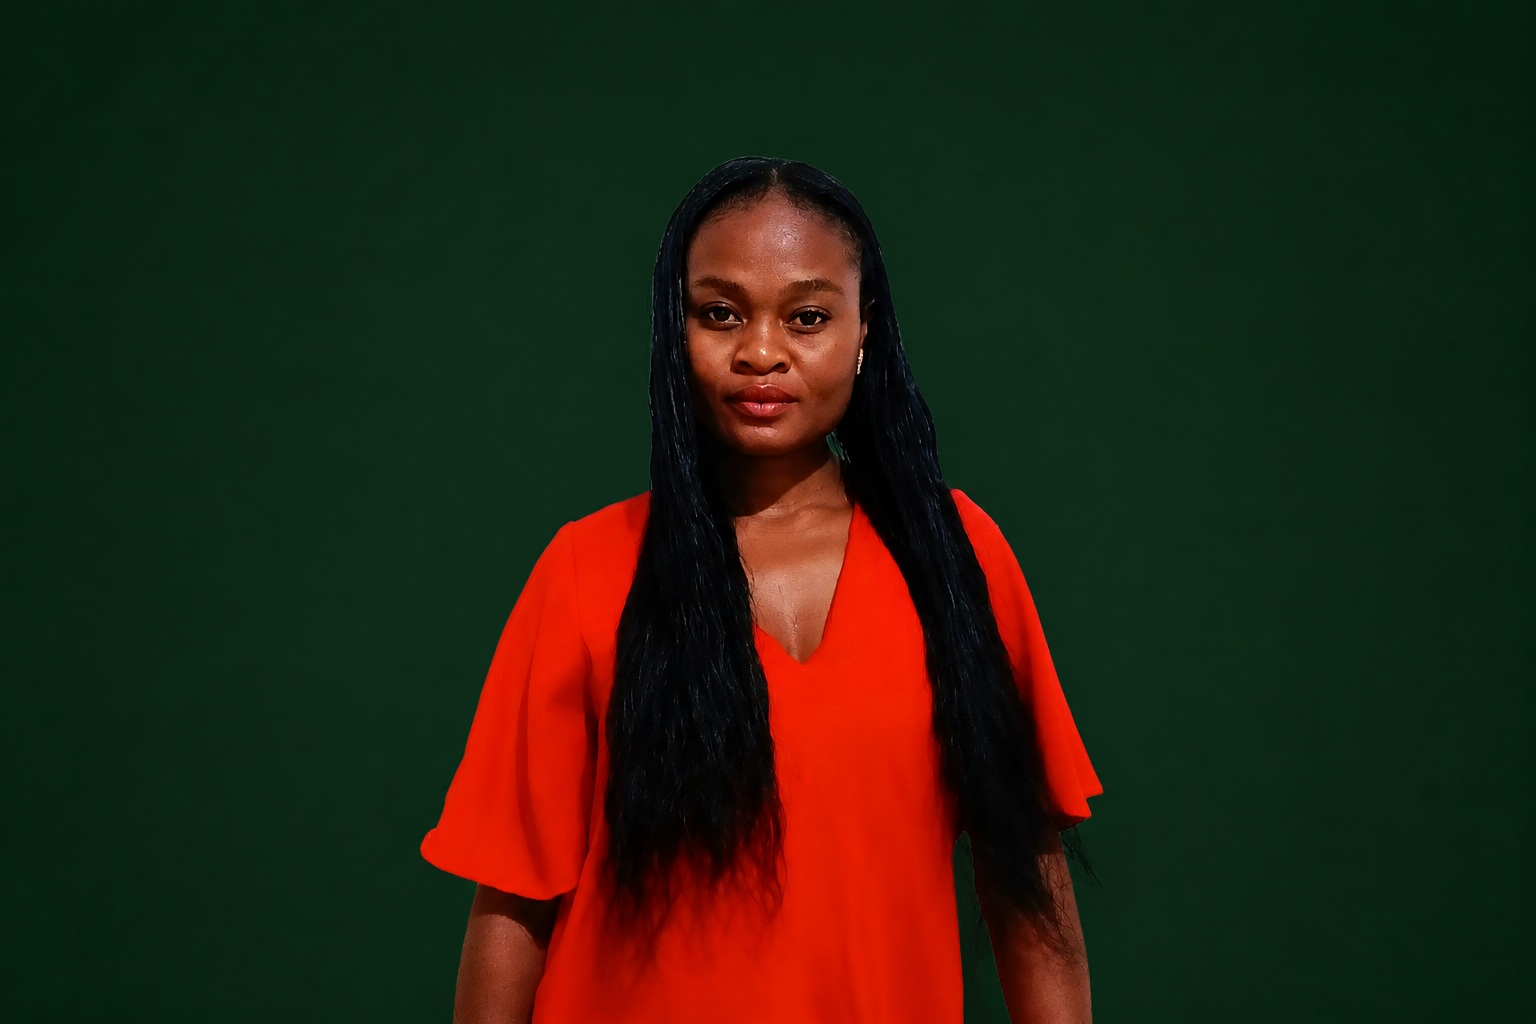
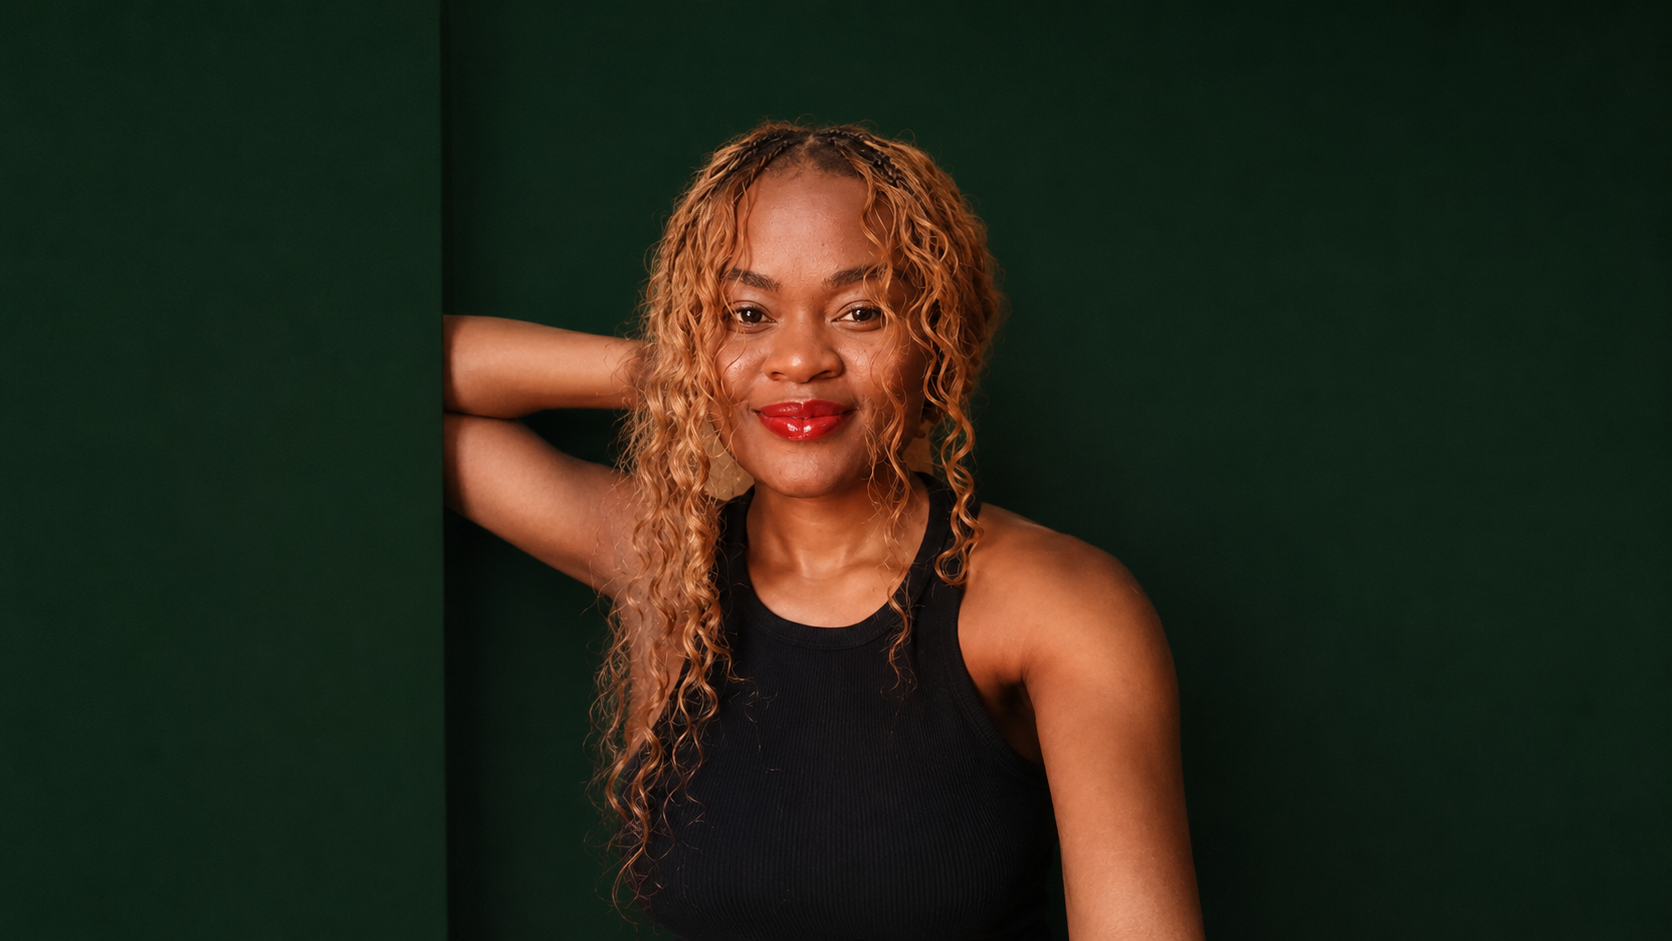
ANOTHERAI

Changed region(s): [[0.25, 0.1233, 0.75, 1.0]]

diff --git a/app/page.tsx b/app/page.tsx
@@ -170,11 +170,12 @@ const ENGAGE_GROUPS = [
   { key: "law-firms", label: "Law Firms", opening: "Hi, I represent a law firm interested in working with Decra on technology law advisory or compliance." },
   { key: "tech-firms", label: "Tech Firms", opening: "Hi, I work at a tech company and need support with regulatory compliance, data protection, or product legal review." },
   { key: "techpreneurs", label: "Techpreneurs", opening: "Hi, I'm a founder or builder looking for help with incorporation, equity, fundraising, or startup advisory." },
+  { key: "tech-law-events", label: "Tech Law Events", opening: "Hi, I'm organizing or partnering on a technology law event and would like to discuss having Decra speak or participate." },
 ];
 
 const ENGAGE_SYSTEM = `You are Decra Kerubo's AI intake advisor on decrakerubo.com.
 Decra is a Nairobi-based lawyer and computer scientist specialising in technology law and startup legal advisory in Kenya and East Africa.
-She works with: law firms needing tech law support or compliance; tech companies needing ODPC/data protection, product legal review, tech contracts; founders needing incorporation, equity, co-founder agreements, eTIMS/KRA tax, fundraising, foreign branches, PBO registration.
+She works with: law firms needing tech law support or compliance; tech companies needing ODPC/data protection, product legal review, tech contracts; founders needing incorporation, equity, co-founder agreements, eTIMS/KRA tax, fundraising, foreign branches, PBO registration; and tech law event organizers seeking speakers, panelists, or partnership.
 Your job: warm natural conversation, ONE question at a time. Gather over 4-6 exchanges: what they need, their context/stage, name, email.
 If they mention NGO, nonprofit, or international branch, ask: PBO (local Kenyan entity) or foreign company branch?
 Once done say exactly: "Perfect — I have everything Decra needs. She'll be in touch within 48 hours." Then on a new line:
@@ -237,7 +238,7 @@ function WorkWithDecra() {
         </div>
 
         {/* One row, Services-style numbered cards */}
-        <div style={{ display: "grid", gridTemplateColumns: "repeat(3, 1fr)", gap: "0" }} className="wwd-grid">
+        <div style={{ display: "grid", gridTemplateColumns: "repeat(4, 1fr)", gap: "0" }} className="wwd-grid">
           {ENGAGE_GROUPS.map((g, i) => {
             const isActive = active === g.key;
             return (
@@ -302,7 +303,7 @@ function WorkWithDecra() {
           </div>
         )}
       </div>
-      <style>{`@media(max-width:900px){.wwd-grid{grid-template-columns:1fr!important}.wwd-grid>button{border-left:none!important;border-top:1px solid var(--c-border)!important}}@keyframes dot-pulse{0%,100%{opacity:0.3;transform:translateY(0)}50%{opacity:1;transform:translateY(-3px)}}`}</style>
+      <style>{`@media(max-width:900px){.wwd-grid{grid-template-columns:repeat(2,1fr)!important}.wwd-grid>button:nth-child(odd){border-left:none!important}.wwd-grid>button:nth-child(n+3){border-top:1px solid var(--c-border)!important}}@media(max-width:560px){.wwd-grid{grid-template-columns:1fr!important}.wwd-grid>button{border-left:none!important;border-top:1px solid var(--c-border)!important}}@keyframes dot-pulse{0%,100%{opacity:0.3;transform:translateY(0)}50%{opacity:1;transform:translateY(-3px)}}`}</style>
     </section>
   );
 }
@@ -351,7 +352,7 @@ function The1000() {
     }}>
       <img src="/decra-spotify-bg.jpg" alt="" style={{
         position: "absolute", inset: 0, width: "100%", height: "100%",
-        objectFit: "cover", objectPosition: "center 22%",
+        objectFit: "cover", objectPosition: "62% 28%",
         opacity: 1, zIndex: 0, pointerEvents: "none", display: "block",
       }} />
       <div style={{